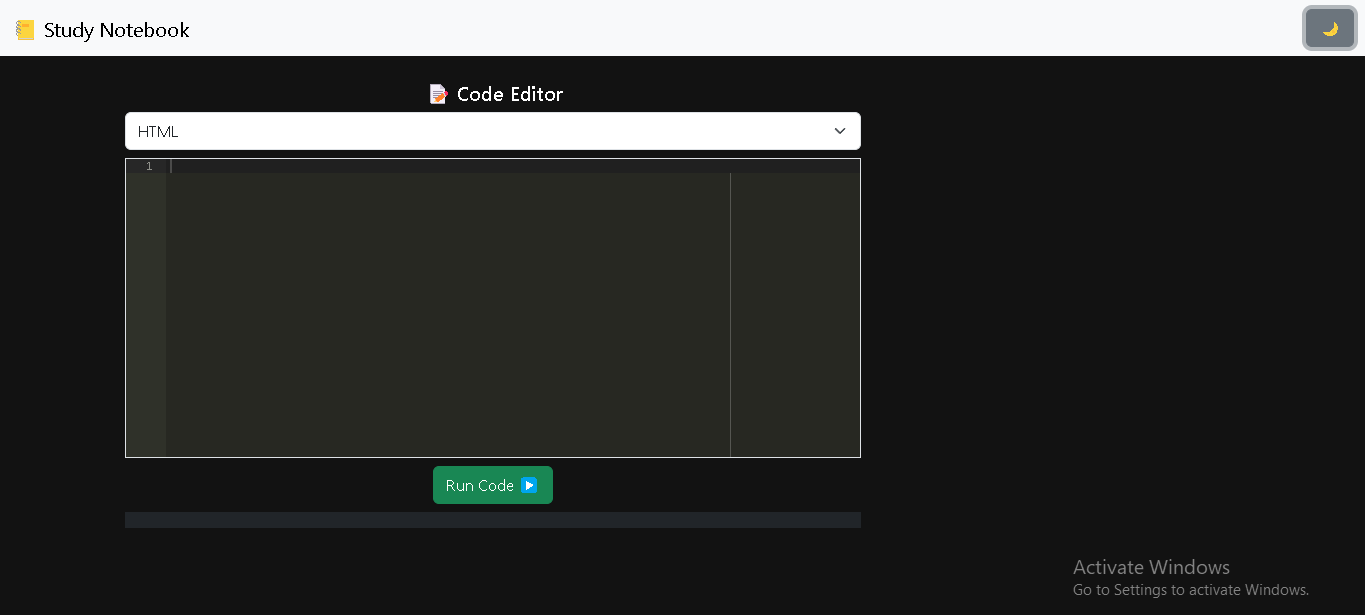
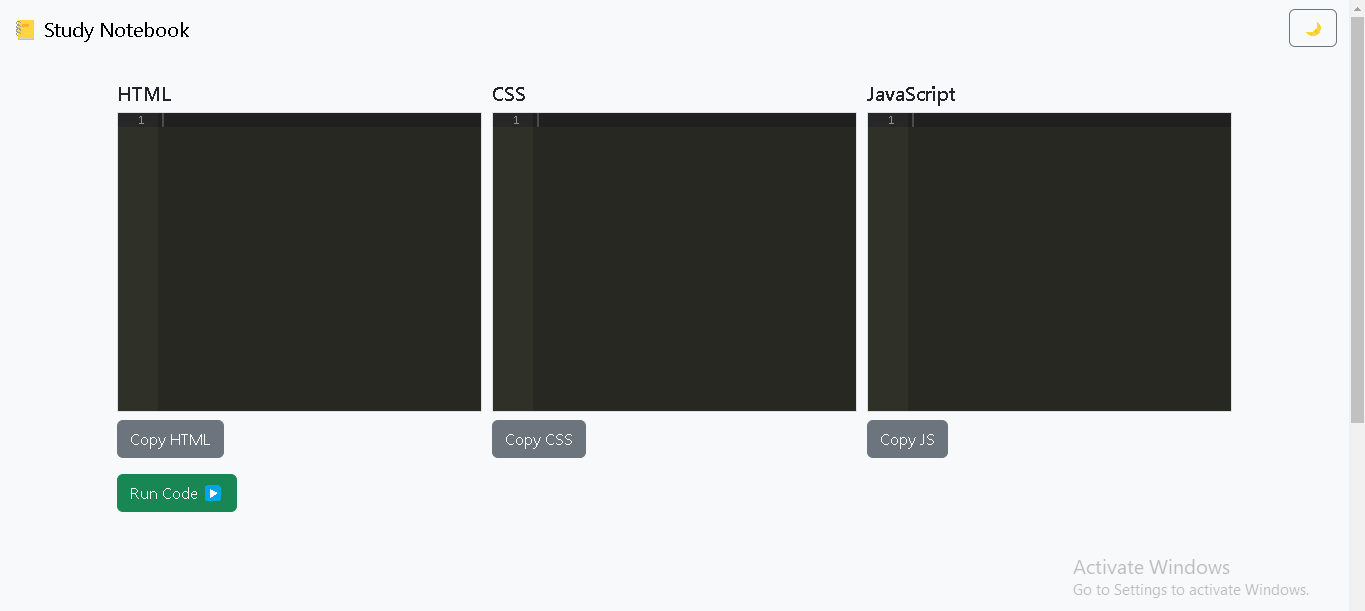
commit

diff --git a/Projects.html b/Projects.html
@@ -70,7 +70,7 @@
       </div>
     <img src="assets/img/portfolio/Ecomerce.png" class="img-fluid project-image" alt="Project Image">
    <center> <div class="portfolio-links">
-    <a href="#" title="GitHub"><i class="bx bxl-github co2"></i></a>
+    <a href="#" title="GitHub"><i class="bx bx-hide co2"></i></a>
     <a href= " https://fresh-cart-e-commerce-master.vercel.app" title ="Live Demo"><i class="bx bx-link co2 "></i></a>
   </div></center>
   </div>
@@ -90,7 +90,7 @@
       </div>
     <img src="assets/img/portfolio/System.png" class="img-fluid project-image" alt="Project Image">
    <center> <div class="portfolio-links">
-    <a href="#" title="GitHub"><i class="bx bxl-github co2"></i></a>
+    <a href="#" title="GitHub"><i class="bx bx-hide co2"></i></a>
     <a href="https://i-ahmed-mohamed.github.io/Compilr/" title="Live Demo"><i class="bx bx-link co2"></i></a>
   </div></center>
   </div>
@@ -109,7 +109,7 @@
       </div>
     <img src="assets/img/portfolio/Cmpilr.png" class="img-fluid project-image" alt="Project Image">
    <center> <div class="portfolio-links">
-    <a href="https://github.com/I-Ahmed-Mohamed/Compilr.git" title="GitHub"><i class="bx bxl-github co2"></i></a>
+    <a href="#" title="GitHub"><i class="bx bx-hide co2"></i></a>
     <a href="https://i-ahmed-mohamed.github.io/Compilr/" title="Live Demo"><i class="bx bx-link co2"></i></a>
   </div></center>
   </div>